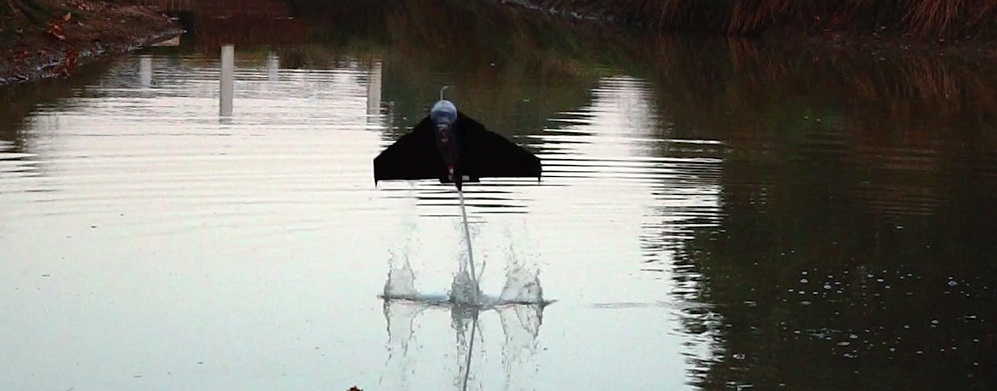
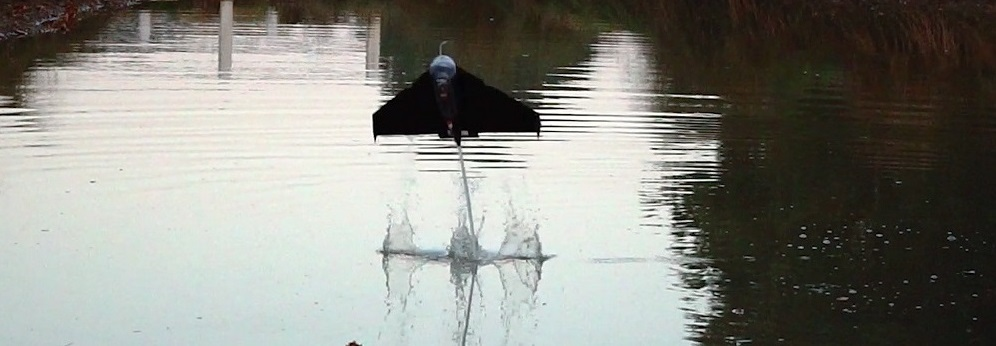
New images

diff --git a/ej.html b/ej.html
@@ -6,7 +6,7 @@
 -->
 <html>
 	<head>
-		<title>Aquatic Jump-glider</title>
+		<title>Aquatic Jump-Glider</title>
 		<meta charset="utf-8" />
 		<meta name="viewport" content="width=device-width, initial-scale=1, user-scalable=no" />
 		<link rel="stylesheet" href="assets/css/main.css" />
@@ -39,30 +39,32 @@
 							<p class="dark"> The <i>Aquatic Jump-glider</i> reliably exits through the use of water-reactive fuel as a combustion source in order to create a powerful water jet and reach flight speeds. Generating up to 20x its weight in trust, the robot rapidly transitions from the water to the air before gliding to the target destination. The robot has demonstrated multiple consecutive jumps using a single container of calcium carbide. The chemical leverages the surrounding environment (i.e.water) to create acetylene which fills the partially submerged combustion chamber. An electric arc triggers the combustion to generate the pressure. The proposed platform was built and extensively tested both in the lab and in an outdoor flight zone. The results were published in Science Robotics (Septembre 2019) and was received with great enthusiasm by the robotics community as well as the general public. It was cited by 37 media outlets in 6 languages and on television. In addition, the testing of the robot relied on a launch system that allows a flying vehicle to reach flight speeds. This launch system was demonstrated with great success at the Science Museum of London during the museum “Lates” event during a flying paper plane interactive event.</p>
 							<span class="image fit"><img src="images/research/ej_1.jpg" alt="" /></span>
 
-							<p class="dark">Sailing-ﬂight cycle overview. The robot lands on water where it transitions to a sailing conﬁguration and executes its mission. Take-off is achieved via propelled acceleration, transitioning from displacement vessel regime, to hydroplaning and lastly to being fully airborne.</p>
+							<p class="dark">Take-off of the Aquatic Jump-glider in an outdoor pond. The jet visible behind the robot propels it at up to 20G.</p>
 
+							<h2 class="major dark">Highlights video</h2>
 							  <div class="videoWrapper">
-    <iframe width="560" height="315" src="https://www.youtube.com/embed/bloS-W1LJbk" frameborder="0" allow="accelerometer; autoplay; encrypted-media; gyroscope; picture-in-picture" allowfullscreen></iframe>
-  </div>
+							    <iframe width="560" height="315" src="https://www.youtube.com/embed/53QcxXN3-ZE" frameborder="0" allow="accelerometer; autoplay; encrypted-media; gyroscope; picture-in-picture" allowfullscreen></iframe>
+							  </div>
 
-							 
+							<p></p>
+							<h2 class="major dark">Consecutive aquatic jump-gliding with water-reactive fuel </h2>
+							<h3 class="major dark">Science Robotics 2019 </h3>
+							<p class="dark">Despite signiﬁcant research progress on small scale aerial-aquatic robots, most existing prototypes are still constrained by short operation times and limited performance in different fluids. The main challenge is to design a vehicle that satisfies the partially conflicting design requirements for aerial and aquatic operation. In this paper we present a new class of aerial-aquatic robot, the Sailing Micro Air Vehicle, ‘SailMAV’. Thanks to a three-part folding wing design, the SailMAV is capable of both flying and sailing.The robot design permits long and targeted missions at the water interface by leveraging the wind as movement vector. It simultaneously offers the flexibility of flight for rapidly reaching a designated area, overcoming obstacles and moving from one body of water to another, which can be very useful for water sampling in areas with many obstacles. With a total wingspan of 0.96 m, the SailMAV employs the same wing and actuation surfaces for sailing as for flying. It is capable of water surface locomotion as well as take-off and flight at a cruising speed of 10.8 ms−1. The main contributions of this paper are (i) new solutions to the challenges of combined aerial and aquatic locomotion, (ii) the design of a novel hybrid concept, (iii) the development of the required control laws, and (iv) the demonstration of the vehicle successfully sailing and taking off from the water.The presented work can inform the design of hybrid vehicles that adapt their morphology to move effectively.</p>
+							<a href="https://robotics.sciencemag.org/content/4/34/eaax7330" class="button dark icon solid fa-external-link-alt">Publication</a>
 
 							<h2 class="major dark">Selected Media</h2>
 
 							<div class="box alt">
 										<div class="row gtr-uniform">
 											<div class="col-6"><span class="image fit"><img src="images/research/ej_comp.jpg" alt="" /></span></div>
-											<div class="col-6"><span class="image fit"><img src="images/research/ej_comp.jpg" alt="" /></span></div>											
+											<div class="col-6"><span class="image fit"><img src="images/research/ej_tank.jpg" alt="" /></span></div>											
+
+											<div class="col-4"><span class="image fit"><img src="images/research/ej_slow.jpg" alt="" /></span></div>
+											<div class="col-8"><span class="image fit"><img src="images/research/ej_static.jpg" alt="" /></span></div>	
+											<div class="col-12"><span class="image fit"><img src="images/research/ej_metrics.jpg" alt="" /></span></div>										
 
 										</div>
 									</div>
-							<p class="dark"> A. The sail in ﬂying conﬁguration, showing a 6 degree angle to the horizontal. B. The sail is moved to an upright position, for the sailing conﬁguration.</p>
-
-
-							<h2 class="major dark">Multiple Consecutive Jet-gliding Flights with Water-reactive Fuel </h2>
-							<h3 class="major dark">Science Robotics 2019 </h3>
-							<p class="dark">Despite signiﬁcant research progress on small scale aerial-aquatic robots, most existing prototypes are still constrained by short operation times and limited performance in different fluids. The main challenge is to design a vehicle that satisfies the partially conflicting design requirements for aerial and aquatic operation. In this paper we present a new class of aerial-aquatic robot, the Sailing Micro Air Vehicle, ‘SailMAV’. Thanks to a three-part folding wing design, the SailMAV is capable of both flying and sailing.The robot design permits long and targeted missions at the water interface by leveraging the wind as movement vector. It simultaneously offers the flexibility of flight for rapidly reaching a designated area, overcoming obstacles and moving from one body of water to another, which can be very useful for water sampling in areas with many obstacles. With a total wingspan of 0.96 m, the SailMAV employs the same wing and actuation surfaces for sailing as for flying. It is capable of water surface locomotion as well as take-off and flight at a cruising speed of 10.8 ms−1. The main contributions of this paper are (i) new solutions to the challenges of combined aerial and aquatic locomotion, (ii) the design of a novel hybrid concept, (iii) the development of the required control laws, and (iv) the demonstration of the vehicle successfully sailing and taking off from the water.The presented work can inform the design of hybrid vehicles that adapt their morphology to move effectively.</p>
-							<a href="https://robotics.sciencemag.org/content/4/34/eaax7330" class="button dark icon solid fa-external-link-alt">Publication</a>
 						</div>
 					</section>
 
